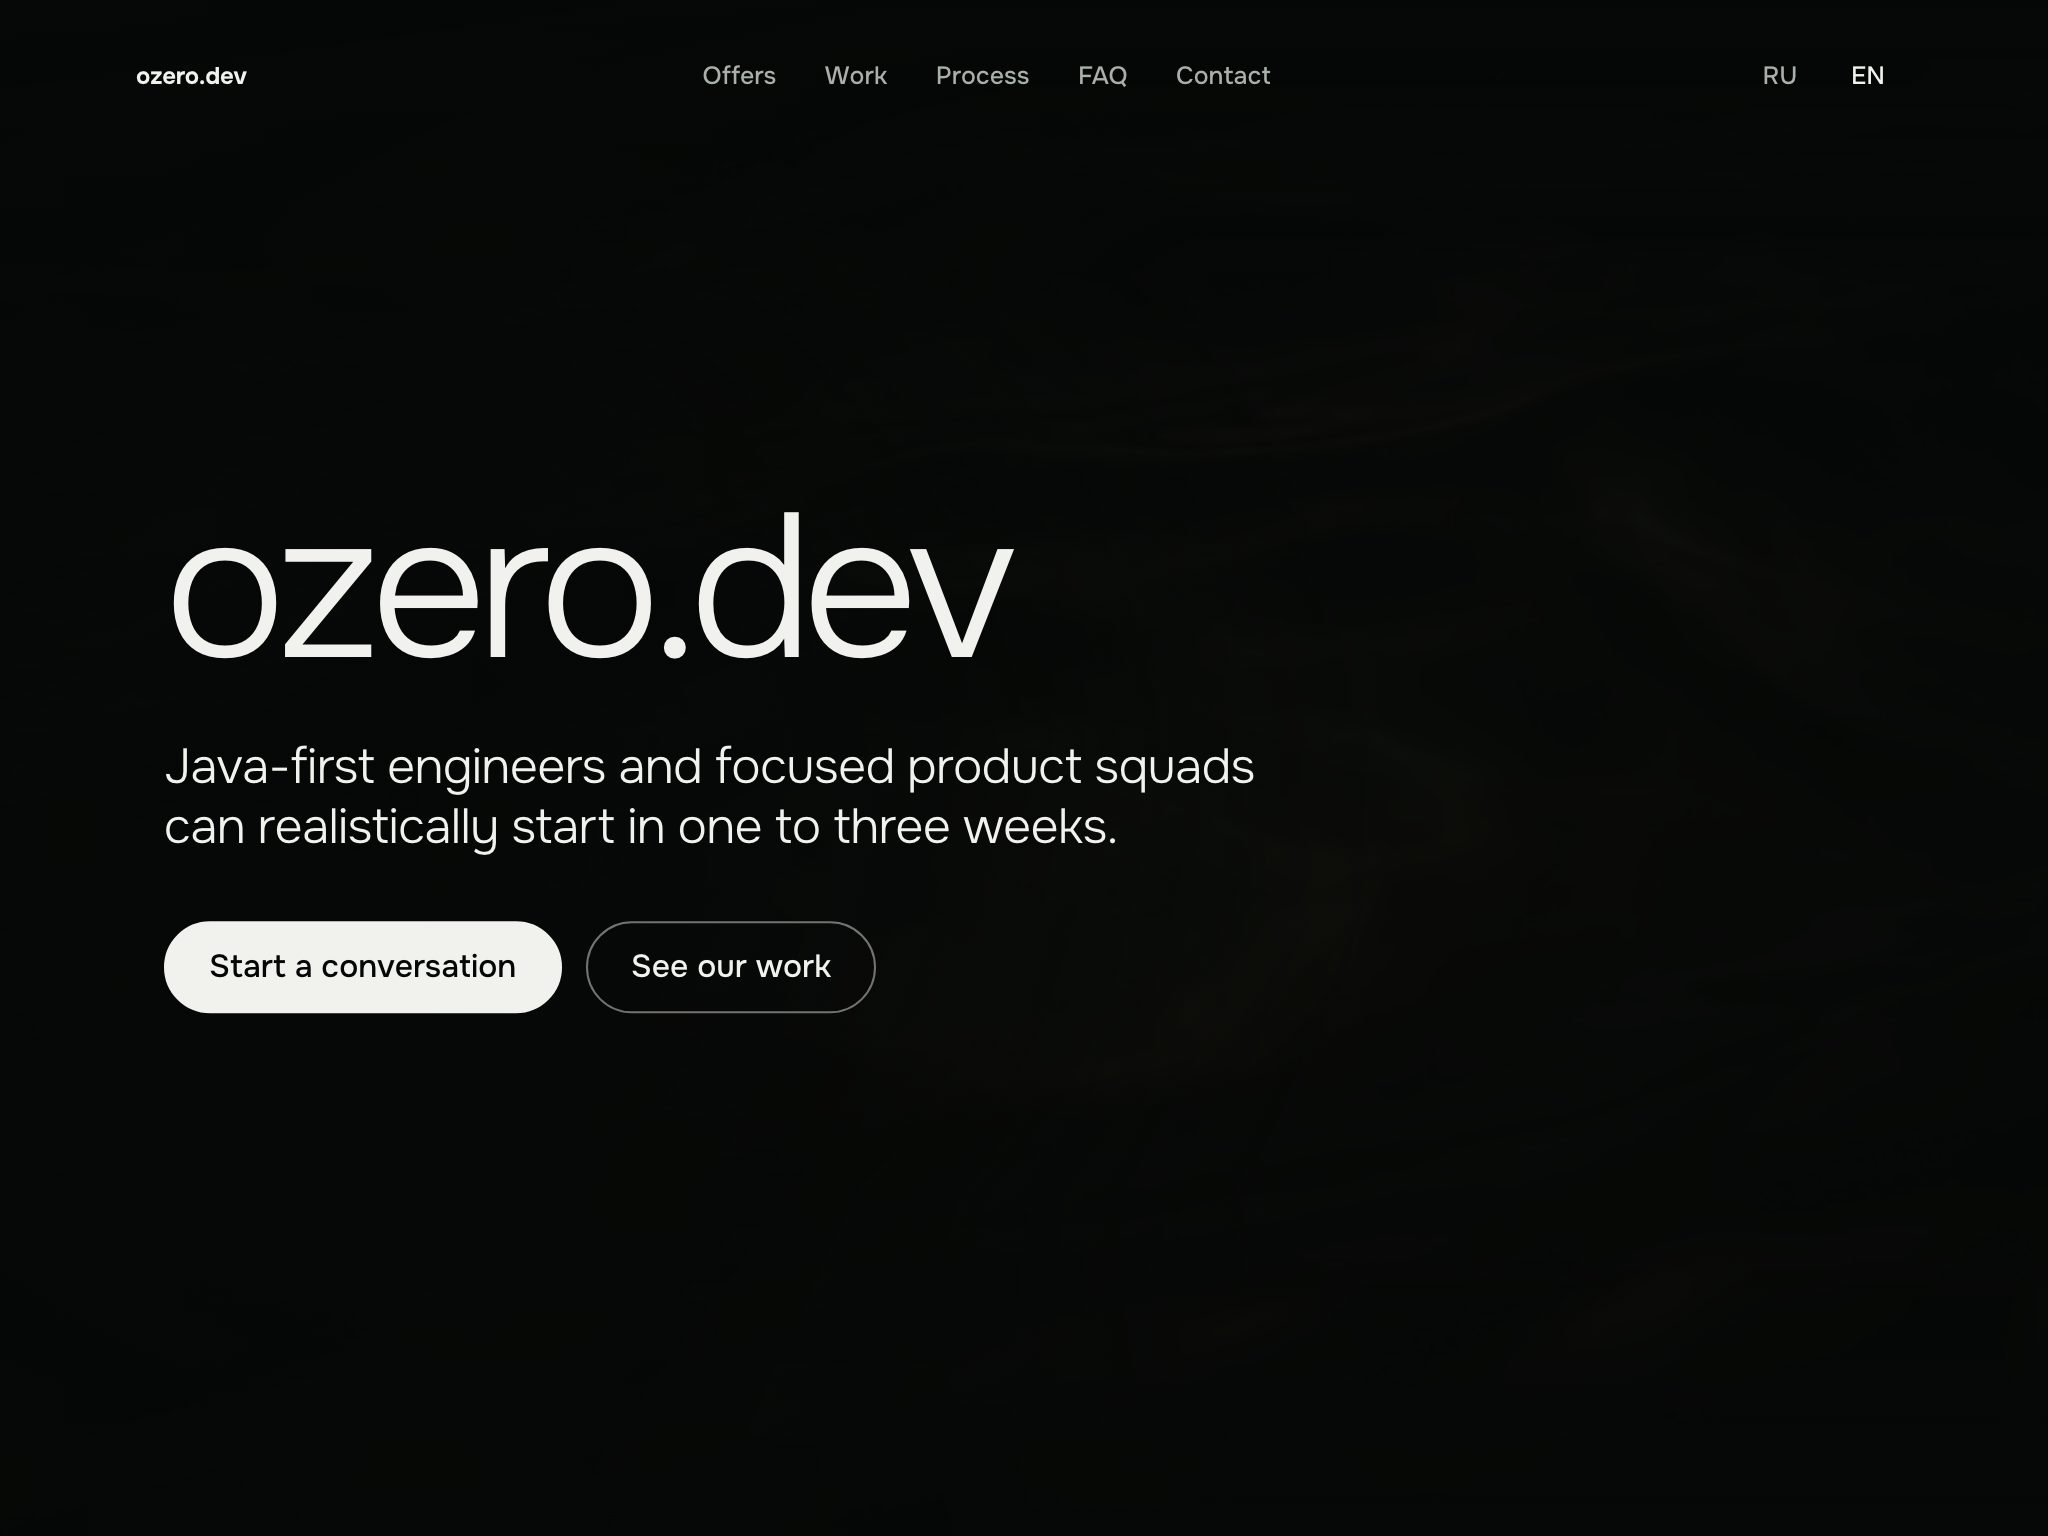
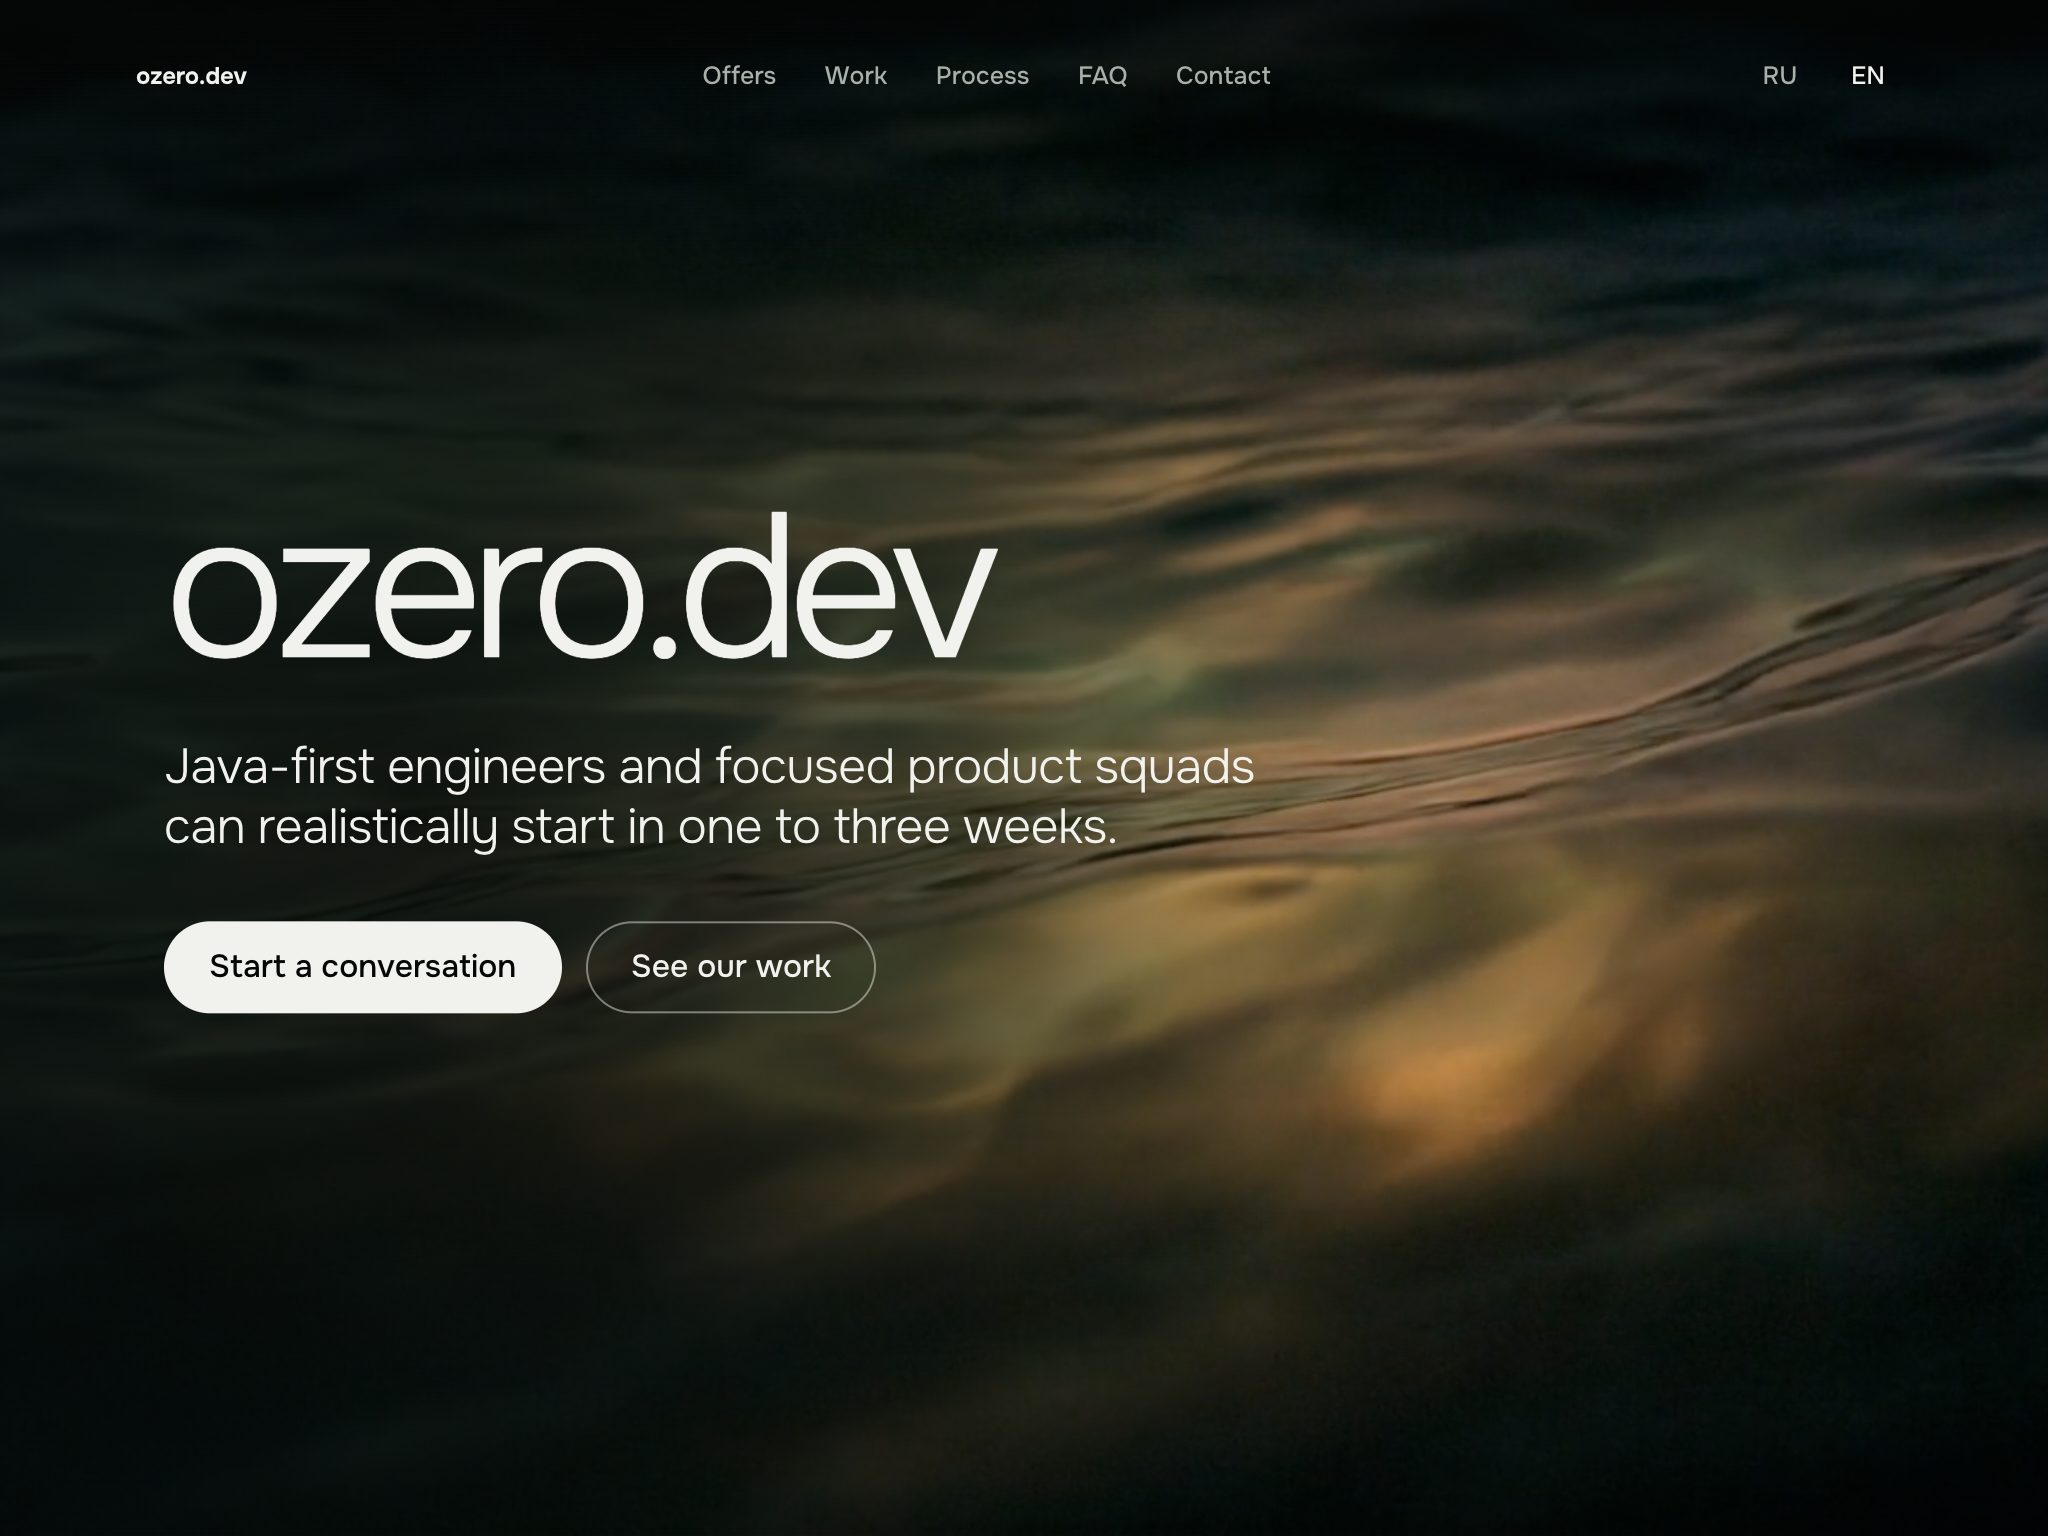
LOD-9 correct the record where the evidence contradicted itself
Three documentation faults, each found by a review rather than by me.

The launch evidence README claimed the phone h1 figures proved compliance with
the declared display token. They do not: 66.3px and 61.2px are 17vw from the
art-directed mobile override, and the declared token would give 60.8px. The
sentence asserted a check that had not happened. Rewritten to say what was
measured, and the mobile override for both display and lede is now recorded in
the DESIGN.md typography amendment as a deliberate exception, beside the intro
curtain. A token that is quietly untrue on the viewport class carrying most of
the traffic is worse than no token.

The five EN frames were captured before the hero poster had decoded — each was
40-45% smaller on disk than its RU twin and the hero read near-black, so they
evidenced layout but not art direction. Re-taken. The capture now asserts
HTMLImageElement.complete and a non-zero naturalWidth before the shutter and
prints the result beside each frame, because a pipeline that cannot tell a dark
composition from an undecoded one is not producing evidence.

The same README now also records that --disable-gpu makes headless Chrome
decline to decode video silently, which is why no frame here shows a playing
loop, and the 8px of scrollable overflow that full-bleed 100vw blocks produce
where a classic scrollbar exists.

public/__seed.html is deleted and ignored. It was a capture aid that reached
[…]

diff --git a/docs/ai/evidence/launch/README.md b/docs/ai/evidence/launch/README.md
@@ -33,10 +33,32 @@ read in the same pass, and every pair was equal:
  360×800  sw=360  cw=360     h1 61.2px
 ```
 
-The `h1` column double-checks the display token: 144/1440, 128/1280 and
-102.4/1024 are all exactly `10vw`, and the two phone sizes are exactly `17vw`
-from the mobile override. That is `DESIGN.md`'s declared
-`clamp(3.8rem, 10vw, 9.5rem)` rendering as declared.
+The `h1` column double-checks the display token **on desktop only**:
+144/1440, 128/1280 and 102.4/1024 are all exactly `10vw`, which is
+`DESIGN.md`'s declared `clamp(3.8rem, 10vw, 9.5rem)` rendering as declared.
+
+The two phone figures are **not** that token. 66.3px and 61.2px are `17vw`
+from the art-directed mobile override at `src/App.css:1388`,
+`clamp(3.6rem, 17vw, 5.5rem)`. The declared token would give 60.8px at 390px —
+its `3.8rem` floor. An earlier version of this file claimed both rows proved
+token compliance, which its own numbers disprove; the launch review caught it.
+`DESIGN.md` § Layout permits an art-directed mobile treatment, and the
+exception is now recorded in the typography amendment rather than implied here.
+
+These numbers were also measured with overlay scrollbars. See the note on
+full-bleed blocks below.
+
+## One measured caveat on the desktop numbers
+
+With a **classic** scrollbar — Windows and Linux Chrome — the desktop
+viewports carry about 8px of scrollable overflow that these frames cannot
+show: at 1280 the launch review measured `scrollWidth` 1273 against
+`clientWidth` 1265. Every full-bleed block uses the
+`width: 100vw; left: 50%; margin-left: -50vw` idiom, and `100vw` includes the
+scrollbar, so each is laid out ~7.5px wider than the content box while
+`body { overflow-x: hidden }` hides the consequence. No horizontal scrollbar
+appears; full-bleed media sits very slightly left of centre. The phone
+viewports measured genuinely clean, `scrollWidth == clientWidth`.
 
 ## How these were captured, and one earlier set that was wrong
 
@@ -66,6 +88,36 @@ Three things had to be right, and each was wrong first:
    interlude frames carry the layer opacities that were read at capture time:
    engraving `0.82` / ascii `0` for the engraving frame, engraving `0` /
    ascii `0.86` for the ASCII frame.
+
+## These frames show posters, not playing video
+
+Two separate reviews found capture faults here, and both are recorded rather
+than quietly re-shot.
+
+The art director found that headless Chrome launched with `--disable-gpu`
+**silently declines to decode video**. It does not error and it does not warn;
+the `<video>` simply never paints. The water visible in the hero frames is
+therefore `hero-water-desktop.webp` — the real poster underneath, and a state a
+visitor genuinely sees before the loop fades in — not `hero-water-desktop.mp4`.
+No frame in this set is evidence that a video plays.
+
+The launch review then found that the five **EN** frames were additionally
+captured before the poster itself had decoded: every EN file was 40–45% smaller
+on disk than its RU twin and the hero read near-black, which would have
+evidenced layout but not art direction. They were re-taken, and the capture now
+asserts `HTMLImageElement.complete` and a non-zero `naturalWidth` on
+`.hero-water__image` before the shutter and prints the result next to each
+frame. A capture pipeline that cannot tell a dark composition from an
+undecoded one is not evidence.
+
+That is also why no depth-band frame is included. A band captured under
+`--disable-gpu` would have been a black rectangle, and filing that as evidence
+of an atmospheric pause would have been worse than filing nothing. The bands
+were confirmed playing separately, in a GPU-enabled run, by the art director.
+
+Anyone re-running this must drop `--disable-gpu` and assert
+`video.paused === false` before trusting a frame that is supposed to contain
+motion.
 
 ## What the interlude frames show
 

diff --git a/README.md b/README.md
@@ -38,6 +38,50 @@ npm install
 | `private-assets/` | Untracked source material that must not be served |
 | `docs/ai/` | Product, design and delivery documents, plus review records |
 
+## The agent harness
+
+This site is built by a small set of agents with explicit, unequal rights, and
+that is deliberate: it is what keeps a generated page from quietly inventing
+claims about a real business.
+
+| Role | Writes | Owns |
+| --- | --- | --- |
+| Orchestrator | Repository, git, Jira, releases | Scope, sequencing, evidence |
+| `frontend-builder` | Production frontend | The only agent that may edit `src/` |
+| `product-strategist` | Nothing | Positioning, claim integrity, EN/RU parity |
+| `art-director` | Nothing | Visual hierarchy, crops, motion restraint |
+| `launch-reviewer` | Nothing | The independent verdict before a merge |
+
+Three read-only agents against one writer is the point. A reviewer that cannot
+edit cannot quietly fix what it should be reporting, and a builder that cannot
+approve cannot sign off on its own work. Read-only agents may run concurrently;
+two production writers must never run at once.
+
+Definitions live twice, once per harness — `.claude/agents/*.md` and
+`.codex/agents/*.toml`. The role bodies are identical and only the frontmatter
+differs. Change one, change the other.
+
+Commit subjects carry the Jira key. Reviewer verdicts are recorded in the PR as
+text; a same-account GitHub approval is not a substitute for review and is
+never faked.
+
+## Generated media
+
+Every generated asset is traceable. `docs/ai/ASSET-PROVENANCE.md` records the
+model, prompt, date, job IDs where they were captured, the exact ffmpeg and
+`cwebp` invocations, and the measured result — loop seams as PSNR, encode
+fidelity as SSIM, and file sizes. `docs/ai/MEDIA-BRIEF.md` holds the briefs the
+assets were generated against.
+
+Two rules that are easy to get wrong:
+
+- Media is additive. A poster is a real element underneath every loop, so a
+  missing file, a blocked request or an unsupported codec costs atmosphere and
+  nothing else.
+- The published case screenshots are derivatives of untracked private sources.
+  They may be cropped and re-encoded, never recoloured, skewed, or dressed in
+  device chrome — `docs/ai/CONTENT-BRIEF.md` is the contract.
+
 ## Before changing anything
 
 Read [AGENTS.md](AGENTS.md). It defines the authority order, what may and may

diff --git a/DESIGN.md b/DESIGN.md
@@ -173,10 +173,21 @@ reachable without this role.
 The wordmark keeps `display`. The brand is still the largest thing on the
 page — the offer is simply no longer the smallest.
 
-One deliberate exception stays off the ramp: `.intro-overlay__wordmark`
-(`src/App.css:104`) sets the entry curtain at `clamp(2.25rem, 5.5vw, 4.25rem)`.
-It is a single transient element that never coexists with page type, and
-tokenizing a role for one overlay would be worse than the exception.
+Two deliberate exceptions stay off the ramp.
+
+`.intro-overlay__wordmark` (`src/App.css:104`) sets the entry curtain at
+`clamp(2.25rem, 5.5vw, 4.25rem)`. It is a single transient element that never
+coexists with page type, and tokenizing a role for one overlay would be worse
+than the exception.
+
+**Below 699px the hero overrides both `display` and `lede`**, to
+`clamp(3.6rem, 17vw, 5.5rem)` and `1.3rem`. The § Layout rule that mobile uses
+an art-directed vertical crop rather than a shrunken desktop composition
+applies to type as well: the declared `display` floor of `3.8rem` is tuned to
+a wide measure, and `17vw` is what keeps the wordmark proportionate to a
+portrait frame. This is recorded because the launch review found the `lede`
+token being quoted as universal when it holds on desktop only — the viewport
+class carrying most traffic was the one where it was untrue.
 
 ## Layout
 
